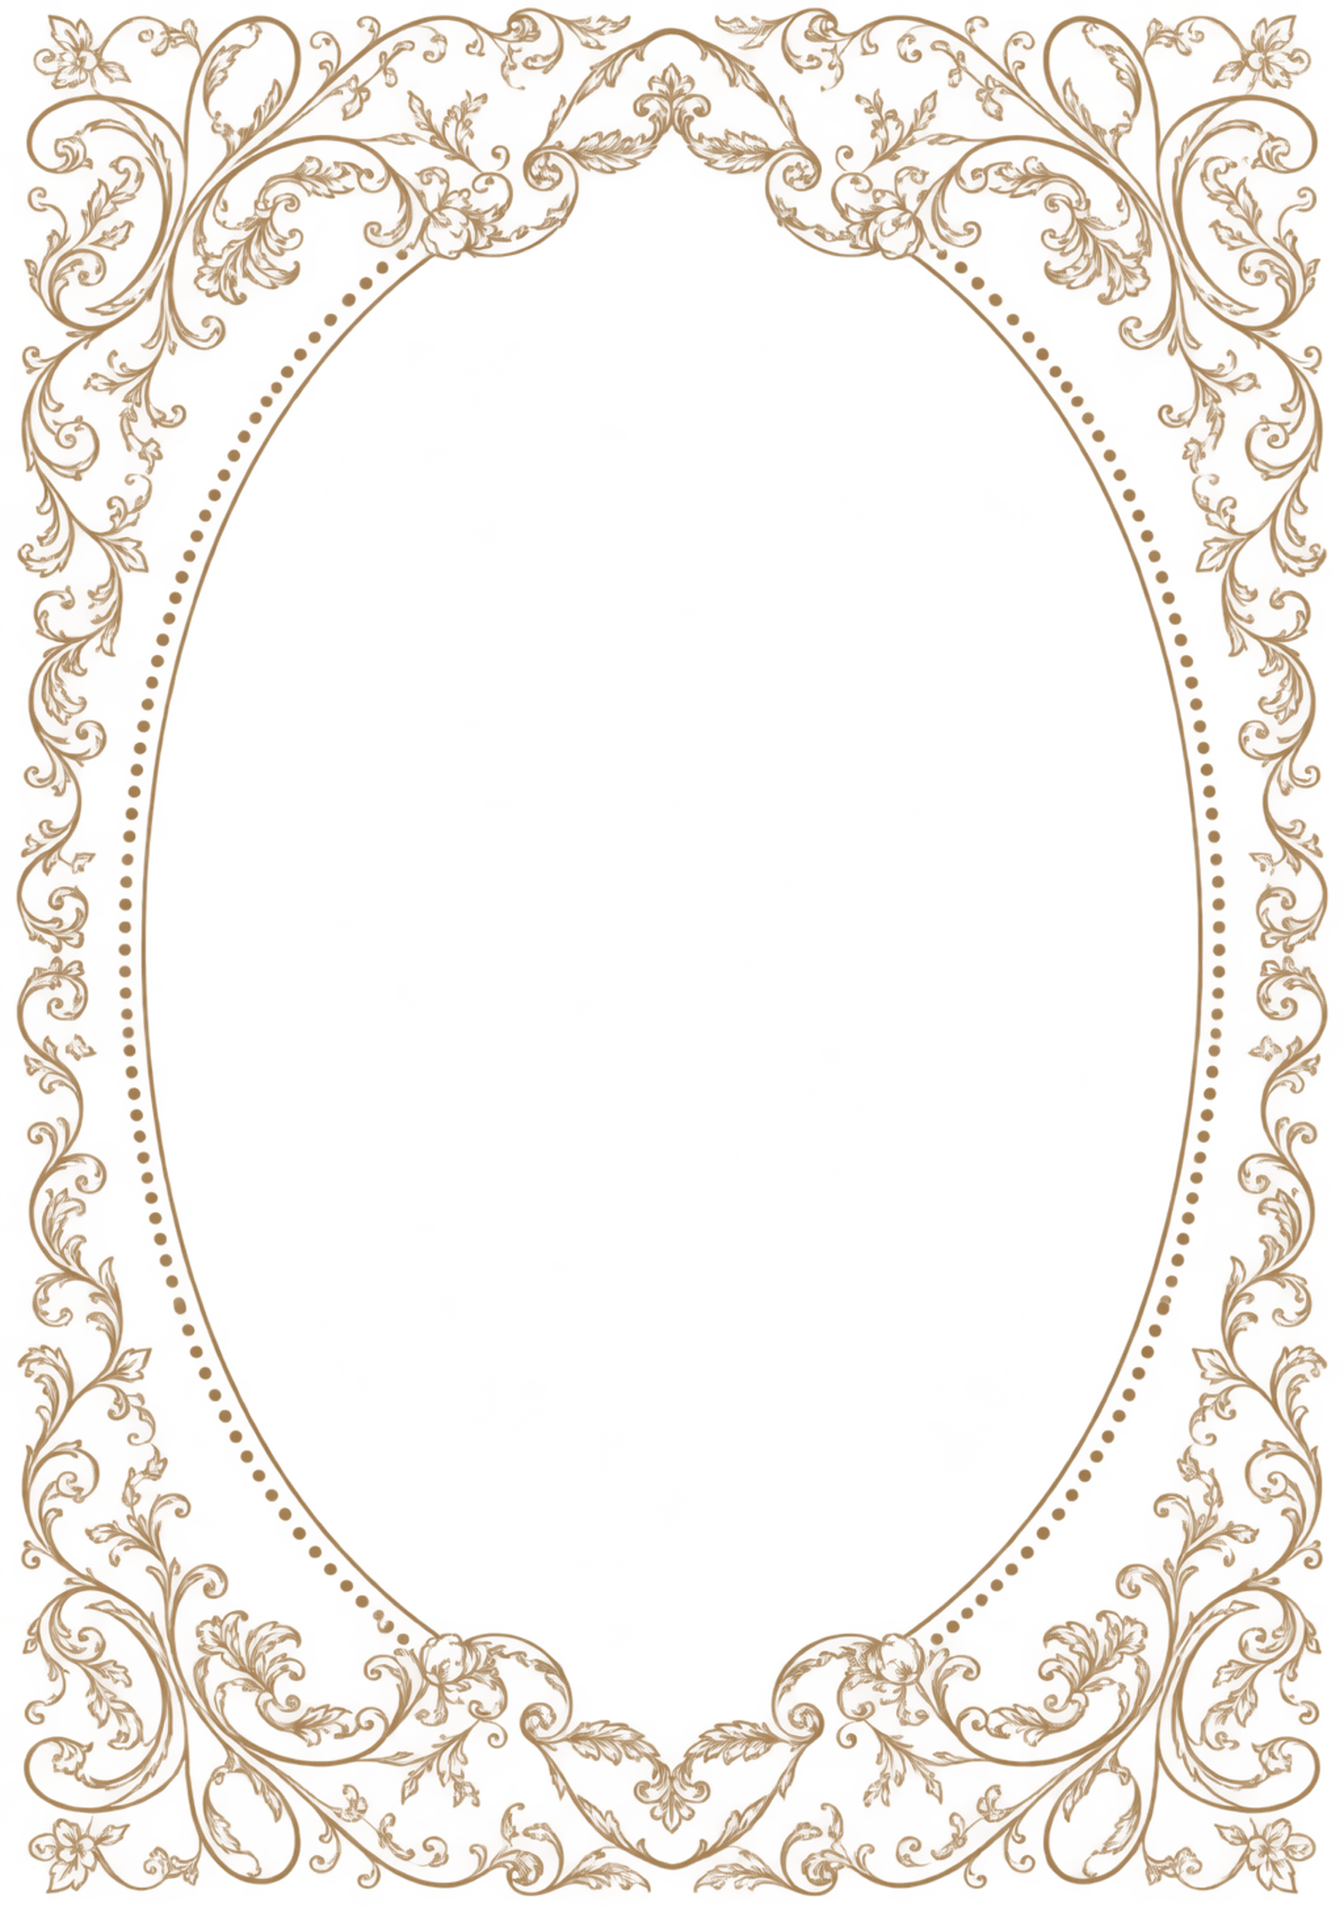
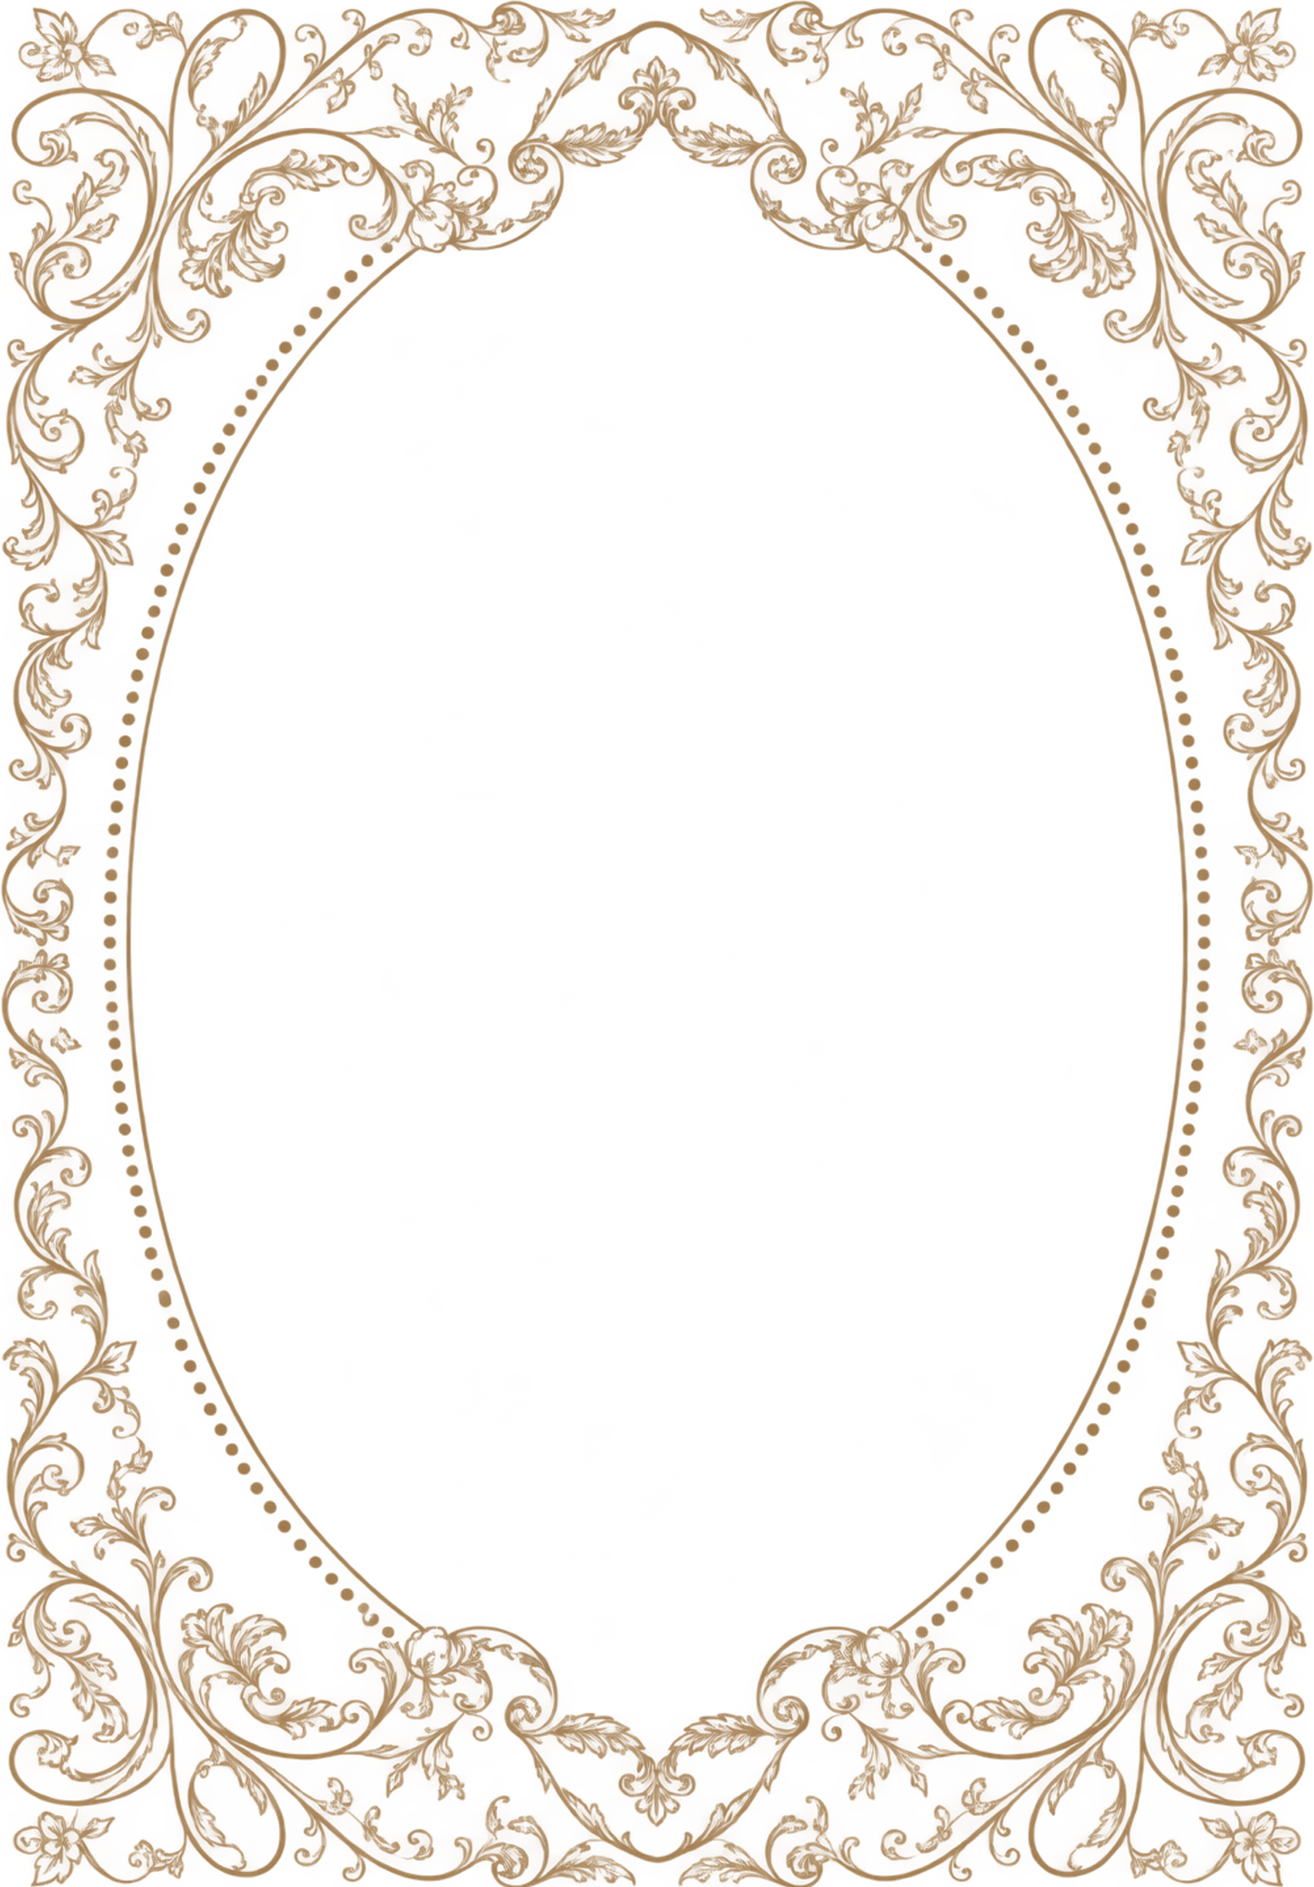
fix: .envelope__card:

Changed region(s): [[0.0, 0.0, 1.0, 1.0]]

diff --git a/invite-app/styles/main.css b/invite-app/styles/main.css
@@ -431,7 +431,7 @@ button {
 /* =========================================================
    ABAS DO ENVELOPE TRASEIRO
    MESMA APARÊNCIA DAS ABAS ORIGINAIS
-========================================================= */
+   ========================================================= */
 
 .envelope__backdrop-left,
 .envelope__backdrop-right,
@@ -874,7 +874,21 @@ button {
   perspective: 1200px;
 
   transform:
-    rotate(3deg);
+    rotate(1deg);
+
+  transform-style: preserve-3d;
+
+  filter:
+    drop-shadow(
+      0
+      0
+      2.0rem
+      var(--envelope-deep)
+    );
+
+  transition:
+    transform 900ms
+    var(--ease-smooth);
 }
 
 
@@ -903,20 +917,21 @@ button {
   background-color: var(--paper);
 
   background-image:
-    radial-gradient(
-      rgb(112 96 69 / 11%) 0.45px,
-      transparent 0.65px
-    ),
+    url("../images/paper-grain.svg"),
     linear-gradient(
       112deg,
-      rgb(255 255 255 / 52%),
-      transparent 45%,
-      rgb(213 196 167 / 12%)
+      rgb(255 255 255 / 46%),
+      transparent 42%,
+      rgb(213 196 167 / 14%)
     );
 
   background-size:
-    4px 4px,
+    180px 180px,
     100% 100%;
+
+  background-repeat:
+    repeat,
+    no-repeat;
 
   /* sombra normal do cartão */
   box-shadow:
@@ -936,16 +951,15 @@ button {
 
   transform:
     translateY(0)
-    scale(0.96);
+    scale(1);
 
-  transform-origin: center bottom;
+  transform-origin: center center;
 
   transition:
     transform 850ms
       var(--ease-smooth),
     box-shadow 700ms ease;
 }
-
 
 /* Camada de sombra sobre o cartão; sua opacidade é animada durante a abertura da aba. */
 .envelope__card::after {
@@ -973,23 +987,6 @@ button {
     opacity 900ms ease;
 }
 
-
-/*
- * Borda interna do cartão
- */
-.envelope__card::before {
-  position: absolute;
-
-  inset: 0.25rem;
-
-  z-index: 1;
-
-  border:
-    1px solid
-    rgb(172 136 80 / 48%);
-
-  content: "";
-}
 
 @keyframes card-flap-shadow {
 
@@ -1029,8 +1026,8 @@ button {
 
   display: flex;
 
-  width: 100%;
-  height: 100%;
+  width: 98%;
+  height: 98%;
 
   /* Moldura floral aplicada ao cartão interno. */
   background-image:
@@ -1063,10 +1060,10 @@ button {
 
   z-index: 3;
 
-  width: 83.1%;
+  width: 85.3%;
 
-  top: -0.5rem;
-  left: -0.21rem;
+  top: -0.37rem;
+  left: -0.17rem;
 
   height: auto;
 
